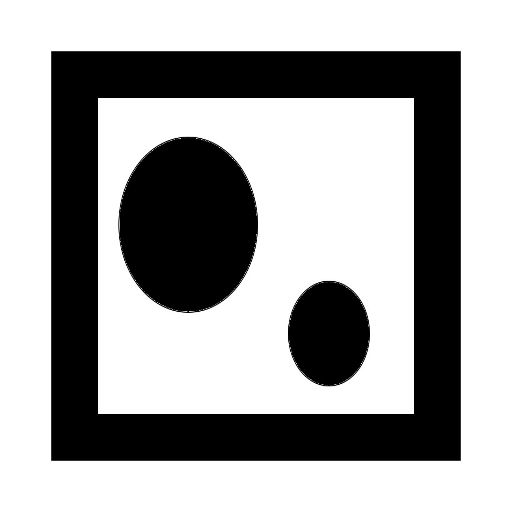
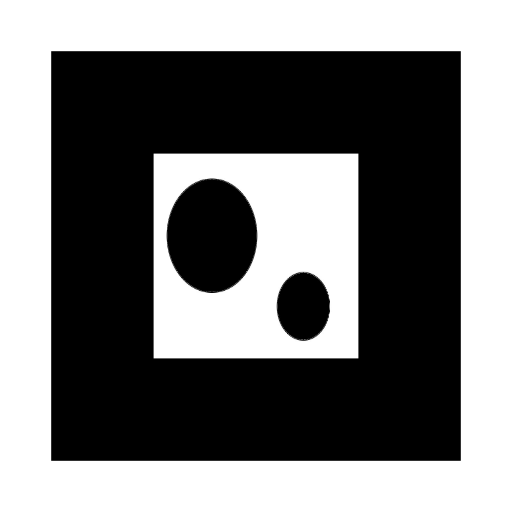
Test

Changed region(s): [[0.1875, 0.1875, 0.8125, 0.8125]]

diff --git a/camera.html b/camera.html
@@ -8,16 +8,15 @@
 <a-scene embedded arjs>
 
     <a-marker type="pattern" preset="custom" url="patterns/test.patt">
-        <!--<a-box color="tomato"></a-box>-->
-        <a-entity geometry="primitive:box" material="shader:gif;src:url(gifs/earth.gif);" gif="" scale="1 1 1"></a-entity>
-
+        <a-box color="tomato"></a-box>
     </a-marker>
 
     <!--<a-marker type="pattern" preset="custom" url="patterns/pattern-elips.patt">-->
         <!--<a-box color="tomato"></a-box>-->
     <!--</a-marker>-->
 
-    <a-marker type="pattern" preset="custom" url="patterns/MAE.patt">
+    <a-marker type="pattern" preset="custom" url="patterns/test.patt">
+        <a-entity geometry="primitive:box" material="shader:gif;src:url(gifs/earth.gif);" gif="" scale="1 1 1"></a-entity>
     </a-marker>
 
     <a-entity camera></a-entity>

diff --git a/index.html b/index.html
@@ -57,7 +57,7 @@
     <section class="resume-section p-3 p-lg-5 d-flex justify-content-center" id="rectangle">
       <div class="w-100">
         <h2 class="mb-5">Rectangle</h2>
-        <img src="img/test.png" class="img-fluid" style="width: 800px" alt="Responsive image">
+        <img src="img/test.png" class="img-fluid" style="width:80%" alt="Responsive image">
       </div>
     </section>
 
@@ -76,7 +76,7 @@
     <section class="resume-section p-3 p-lg-5 d-flex justify-content-center" id="mae">
       <div class="w-100">
         <h2 class="mb-5">Moon and Earth</h2>
-        <img src="img/MAE.png" class="img-fluid" style="width: 800px" alt="Responsive image">
+        <img src="img/MAE.png" class="img-fluid" style="width: 80%" alt="Responsive image">
       </div>
     </section>
 
